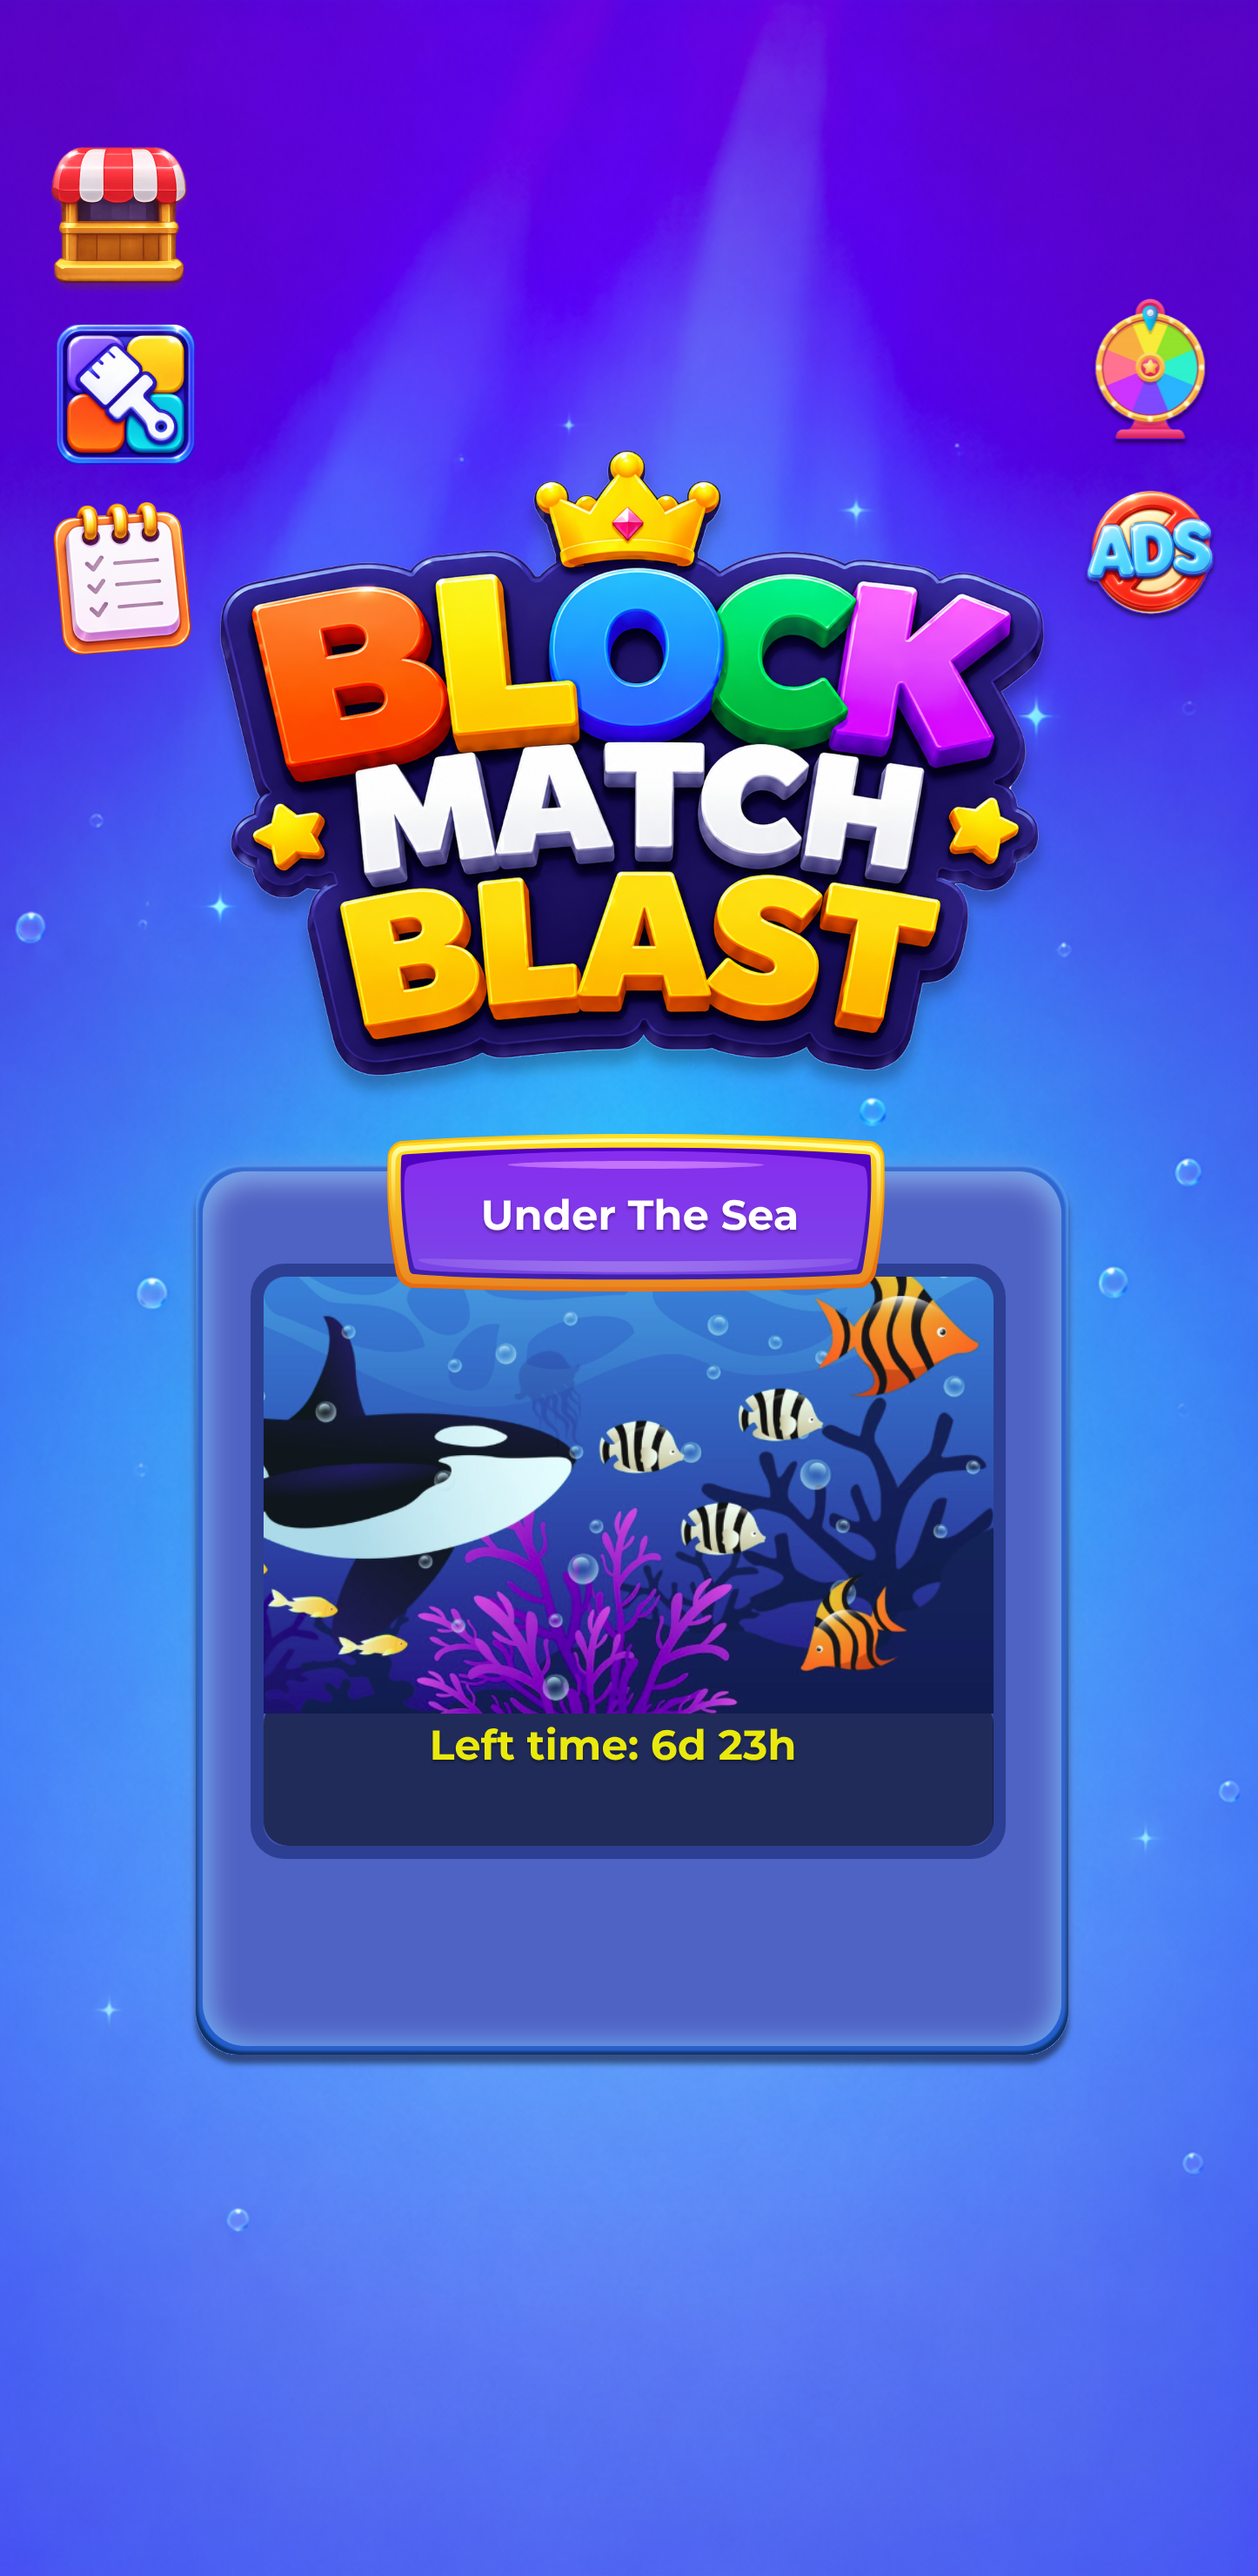
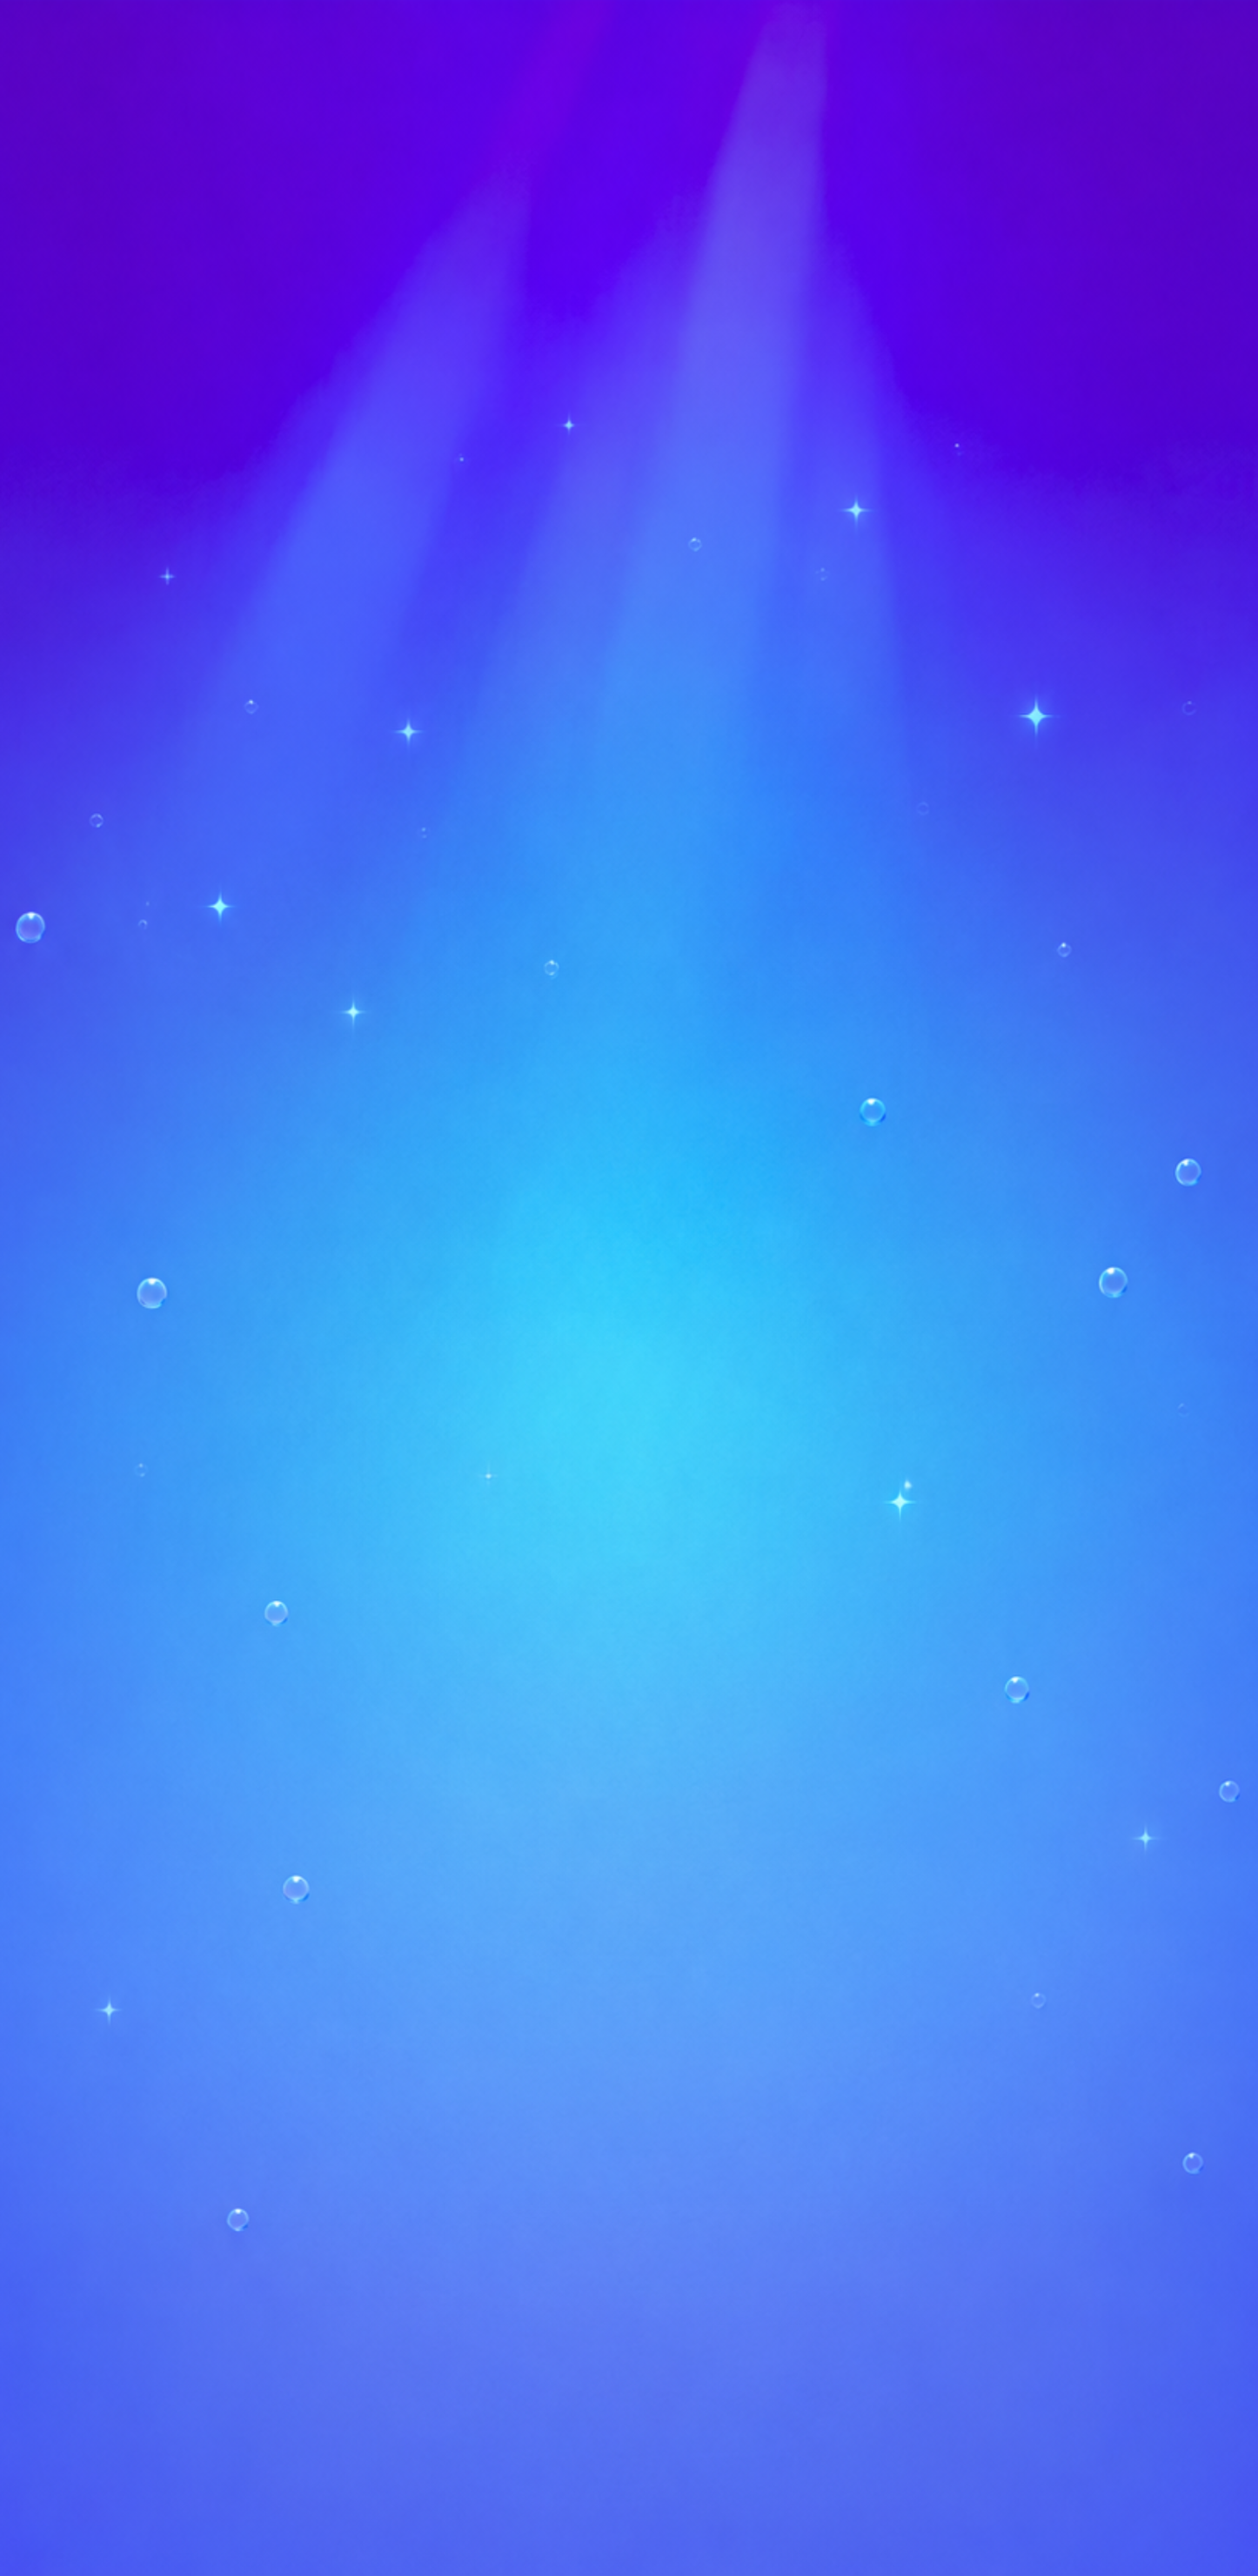
Keep Home art aligned with its buttons on any screen ratio
Home is now a covering gradient plus the logo, icons and event card at
design size, so wide screens no longer crop the art away from the buttons.

Claude-Session: https://claude.ai/code/session_011XsYtzKcJgtSj1eWv66CRR

diff --git a/Assets/BlockBlast/Scripts/View/HomeView.cs b/Assets/BlockBlast/Scripts/View/HomeView.cs
@@ -3,7 +3,10 @@ using UnityEngine;
 
 namespace BlockBlast.View
 {
-    /// <summary>Home screen: background with the mode buttons and the settings gear on top.</summary>
+    /// <summary>
+    /// Home screen: gradient covering the screen, then the logo / icons / event card and the buttons,
+    /// both in design coordinates so wider or taller screens never shift one against the other.
+    /// </summary>
     public sealed class HomeView : MonoBehaviour
     {
         SpriteRenderer adventure, classic, gear;
@@ -12,9 +15,10 @@ namespace BlockBlast.View
         {
             var bg = SpriteFactory.Create("Background", transform, cfg.homeBackground, Vector2.zero, 1f, 40);
             SpriteFactory.Cover(bg, cam);
-            adventure = SpriteFactory.Create("Adventure", transform, cfg.adventureButton, cfg.adventurePos, cfg.modeButtonWidth, 41);
-            classic = SpriteFactory.Create("Classic", transform, cfg.classicButton, cfg.classicPos, cfg.modeButtonWidth, 41);
-            gear = SpriteFactory.Create("Settings", transform, cfg.homeGear, cfg.homeGearPos, cfg.homeGearWidth, 41);
+            SpriteFactory.Create("Art", transform, cfg.homeArt, Vector2.zero, cfg.homeArtWidth, 41);
+            adventure = SpriteFactory.Create("Adventure", transform, cfg.adventureButton, cfg.adventurePos, cfg.modeButtonWidth, 42);
+            classic = SpriteFactory.Create("Classic", transform, cfg.classicButton, cfg.classicPos, cfg.modeButtonWidth, 42);
+            gear = SpriteFactory.Create("Settings", transform, cfg.homeGear, cfg.homeGearPos, cfg.homeGearWidth, 42);
             gameObject.SetActive(false);
         }
 

diff --git a/Assets/BlockBlast/Scripts/Data/GameConfig.cs b/Assets/BlockBlast/Scripts/Data/GameConfig.cs
@@ -60,8 +60,10 @@ namespace BlockBlast.Data
         public Sprite gameOverPanel;
         public Sprite replayButton;
         public Sprite homeButton;
-        [Tooltip("Home screen without its buttons.")]
+        [Tooltip("Home gradient; covers the whole screen.")]
         public Sprite homeBackground;
+        [Tooltip("Home logo, icons and event card at design size, so they stay aligned with the buttons on any screen.")]
+        public Sprite homeArt;
         public Sprite adventureButton;
         public Sprite classicButton;
         public Sprite homeGear;
@@ -123,6 +125,8 @@ namespace BlockBlast.Data
         public float homeWidth = 2.99f;
 
         [Header("Layout: home")]
+        [Tooltip("World width of homeArt, the full Figma home frame (1446 px).")]
+        public float homeArtWidth = 8.66f;
         [Tooltip("Adventure has no mode of its own yet, so it starts Classic too.")]
         public Vector2 adventurePos = new Vector2(0.03f, -4.24f);
         public Vector2 classicPos = new Vector2(0.03f, -7.13f);
